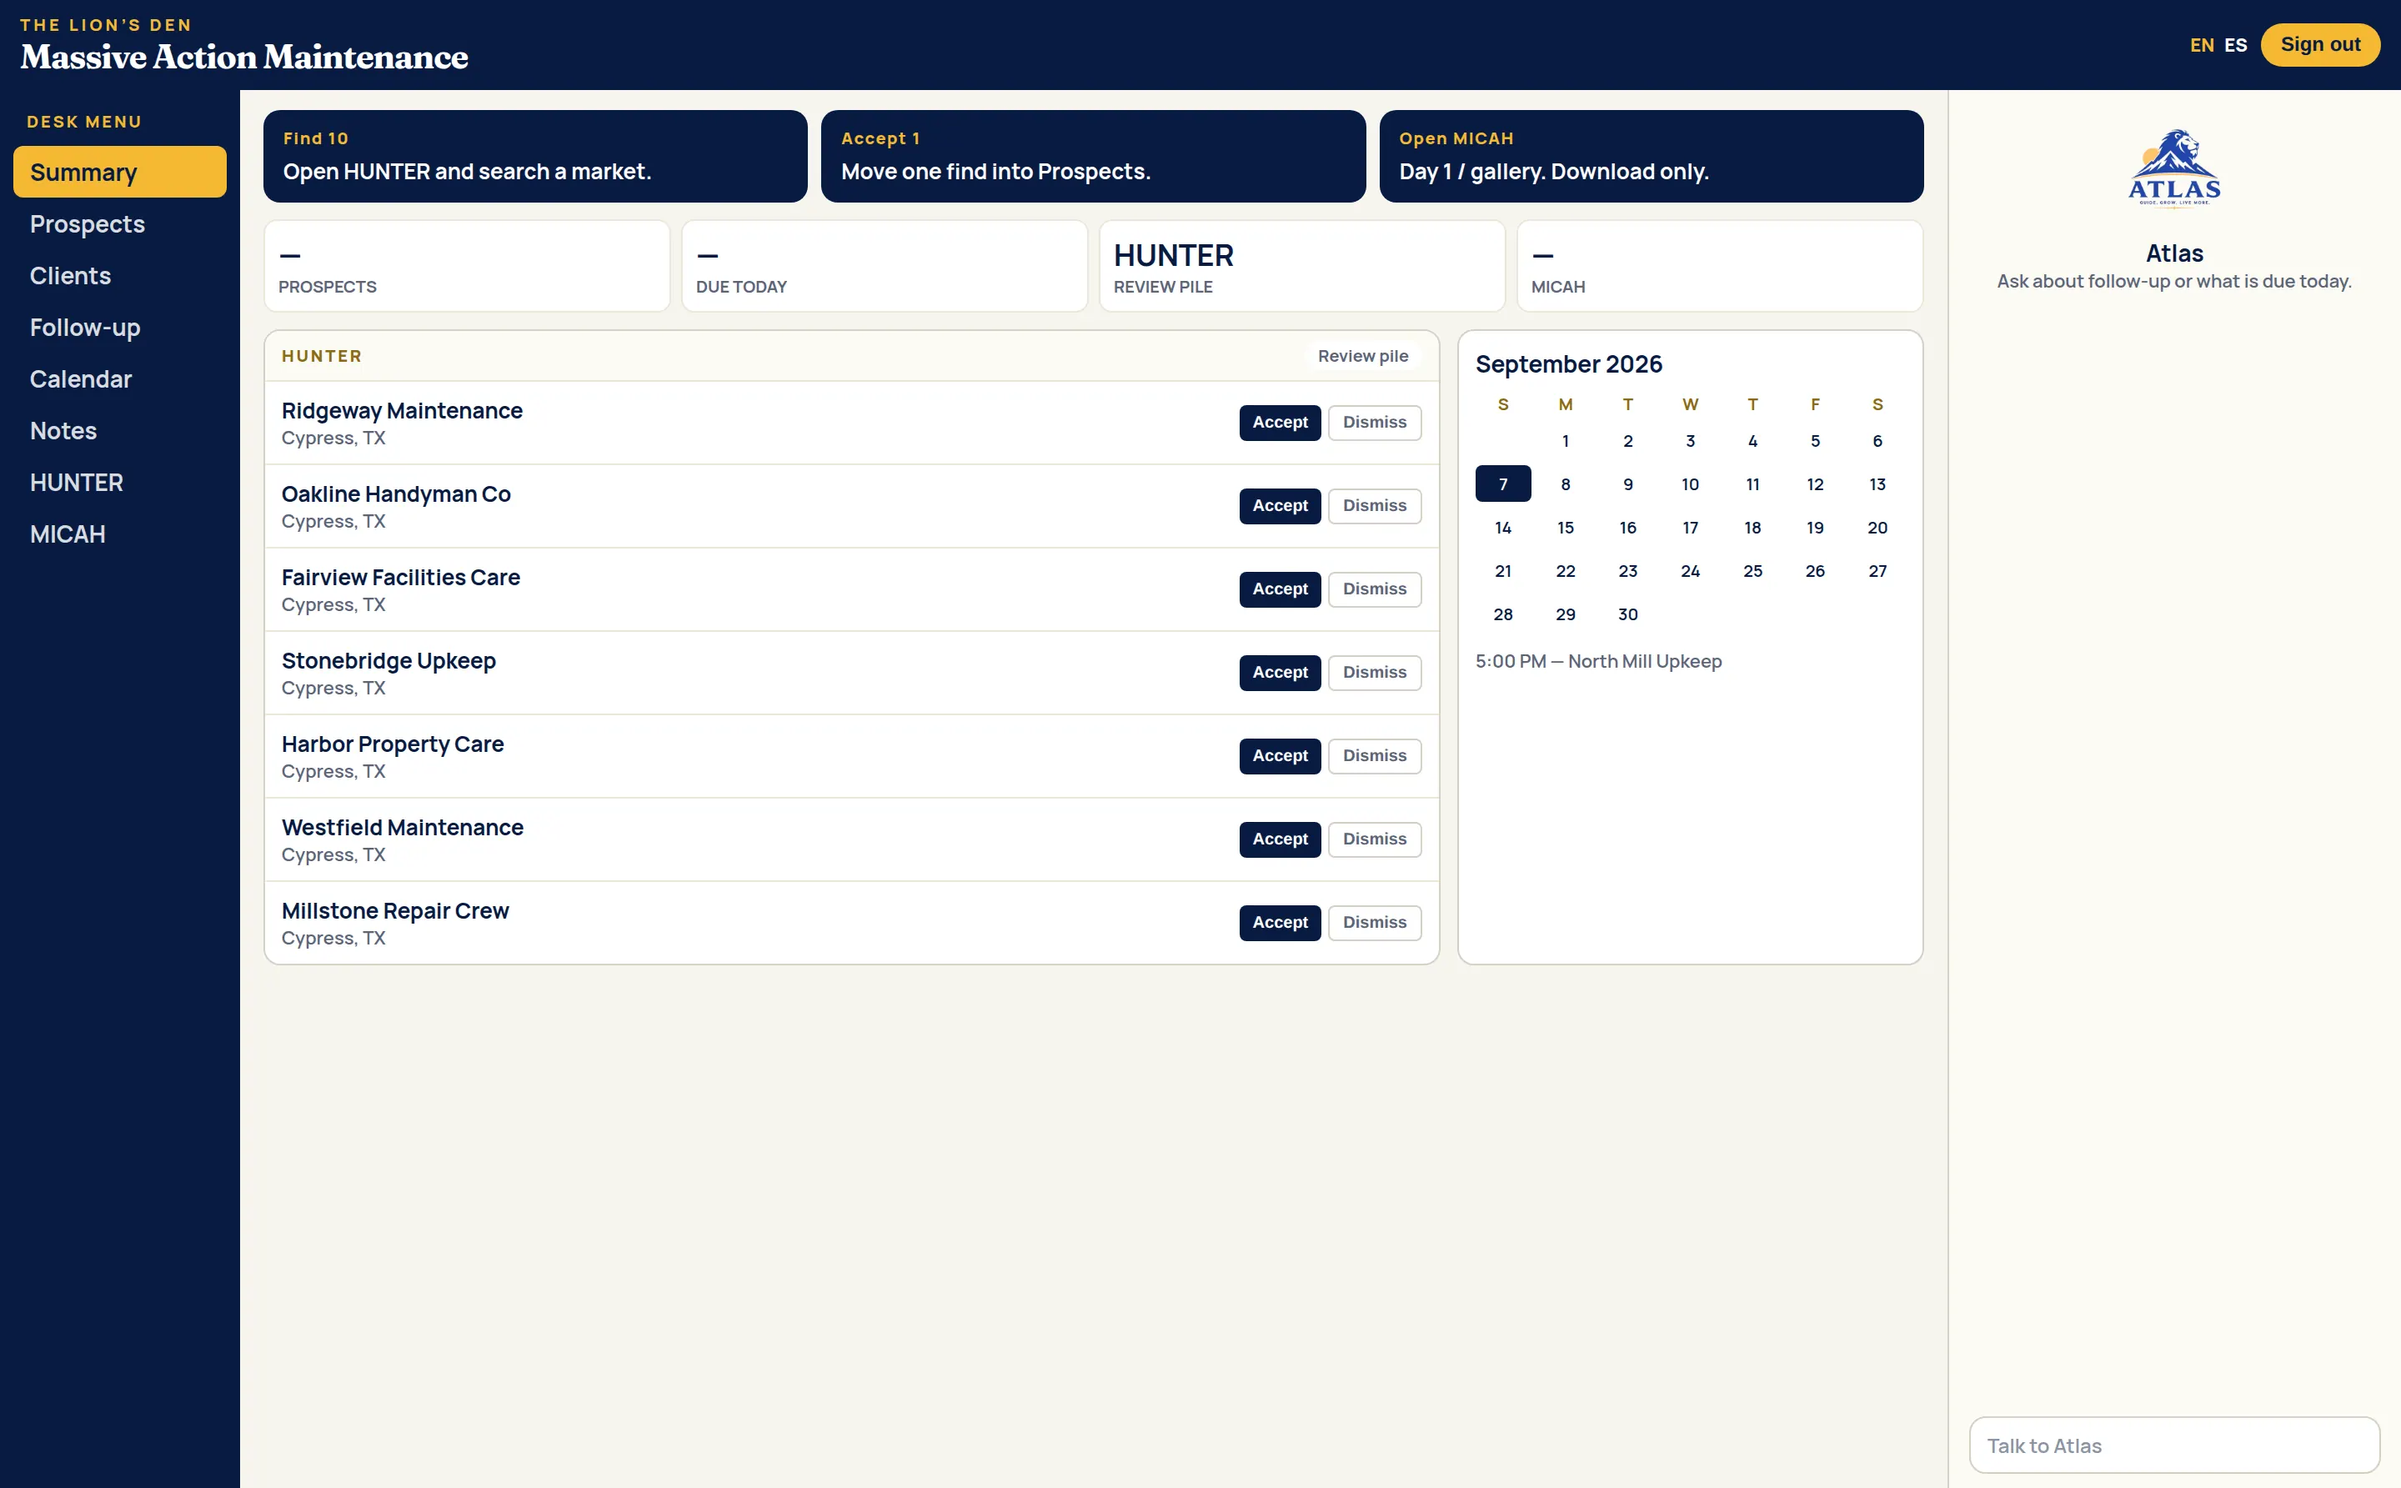
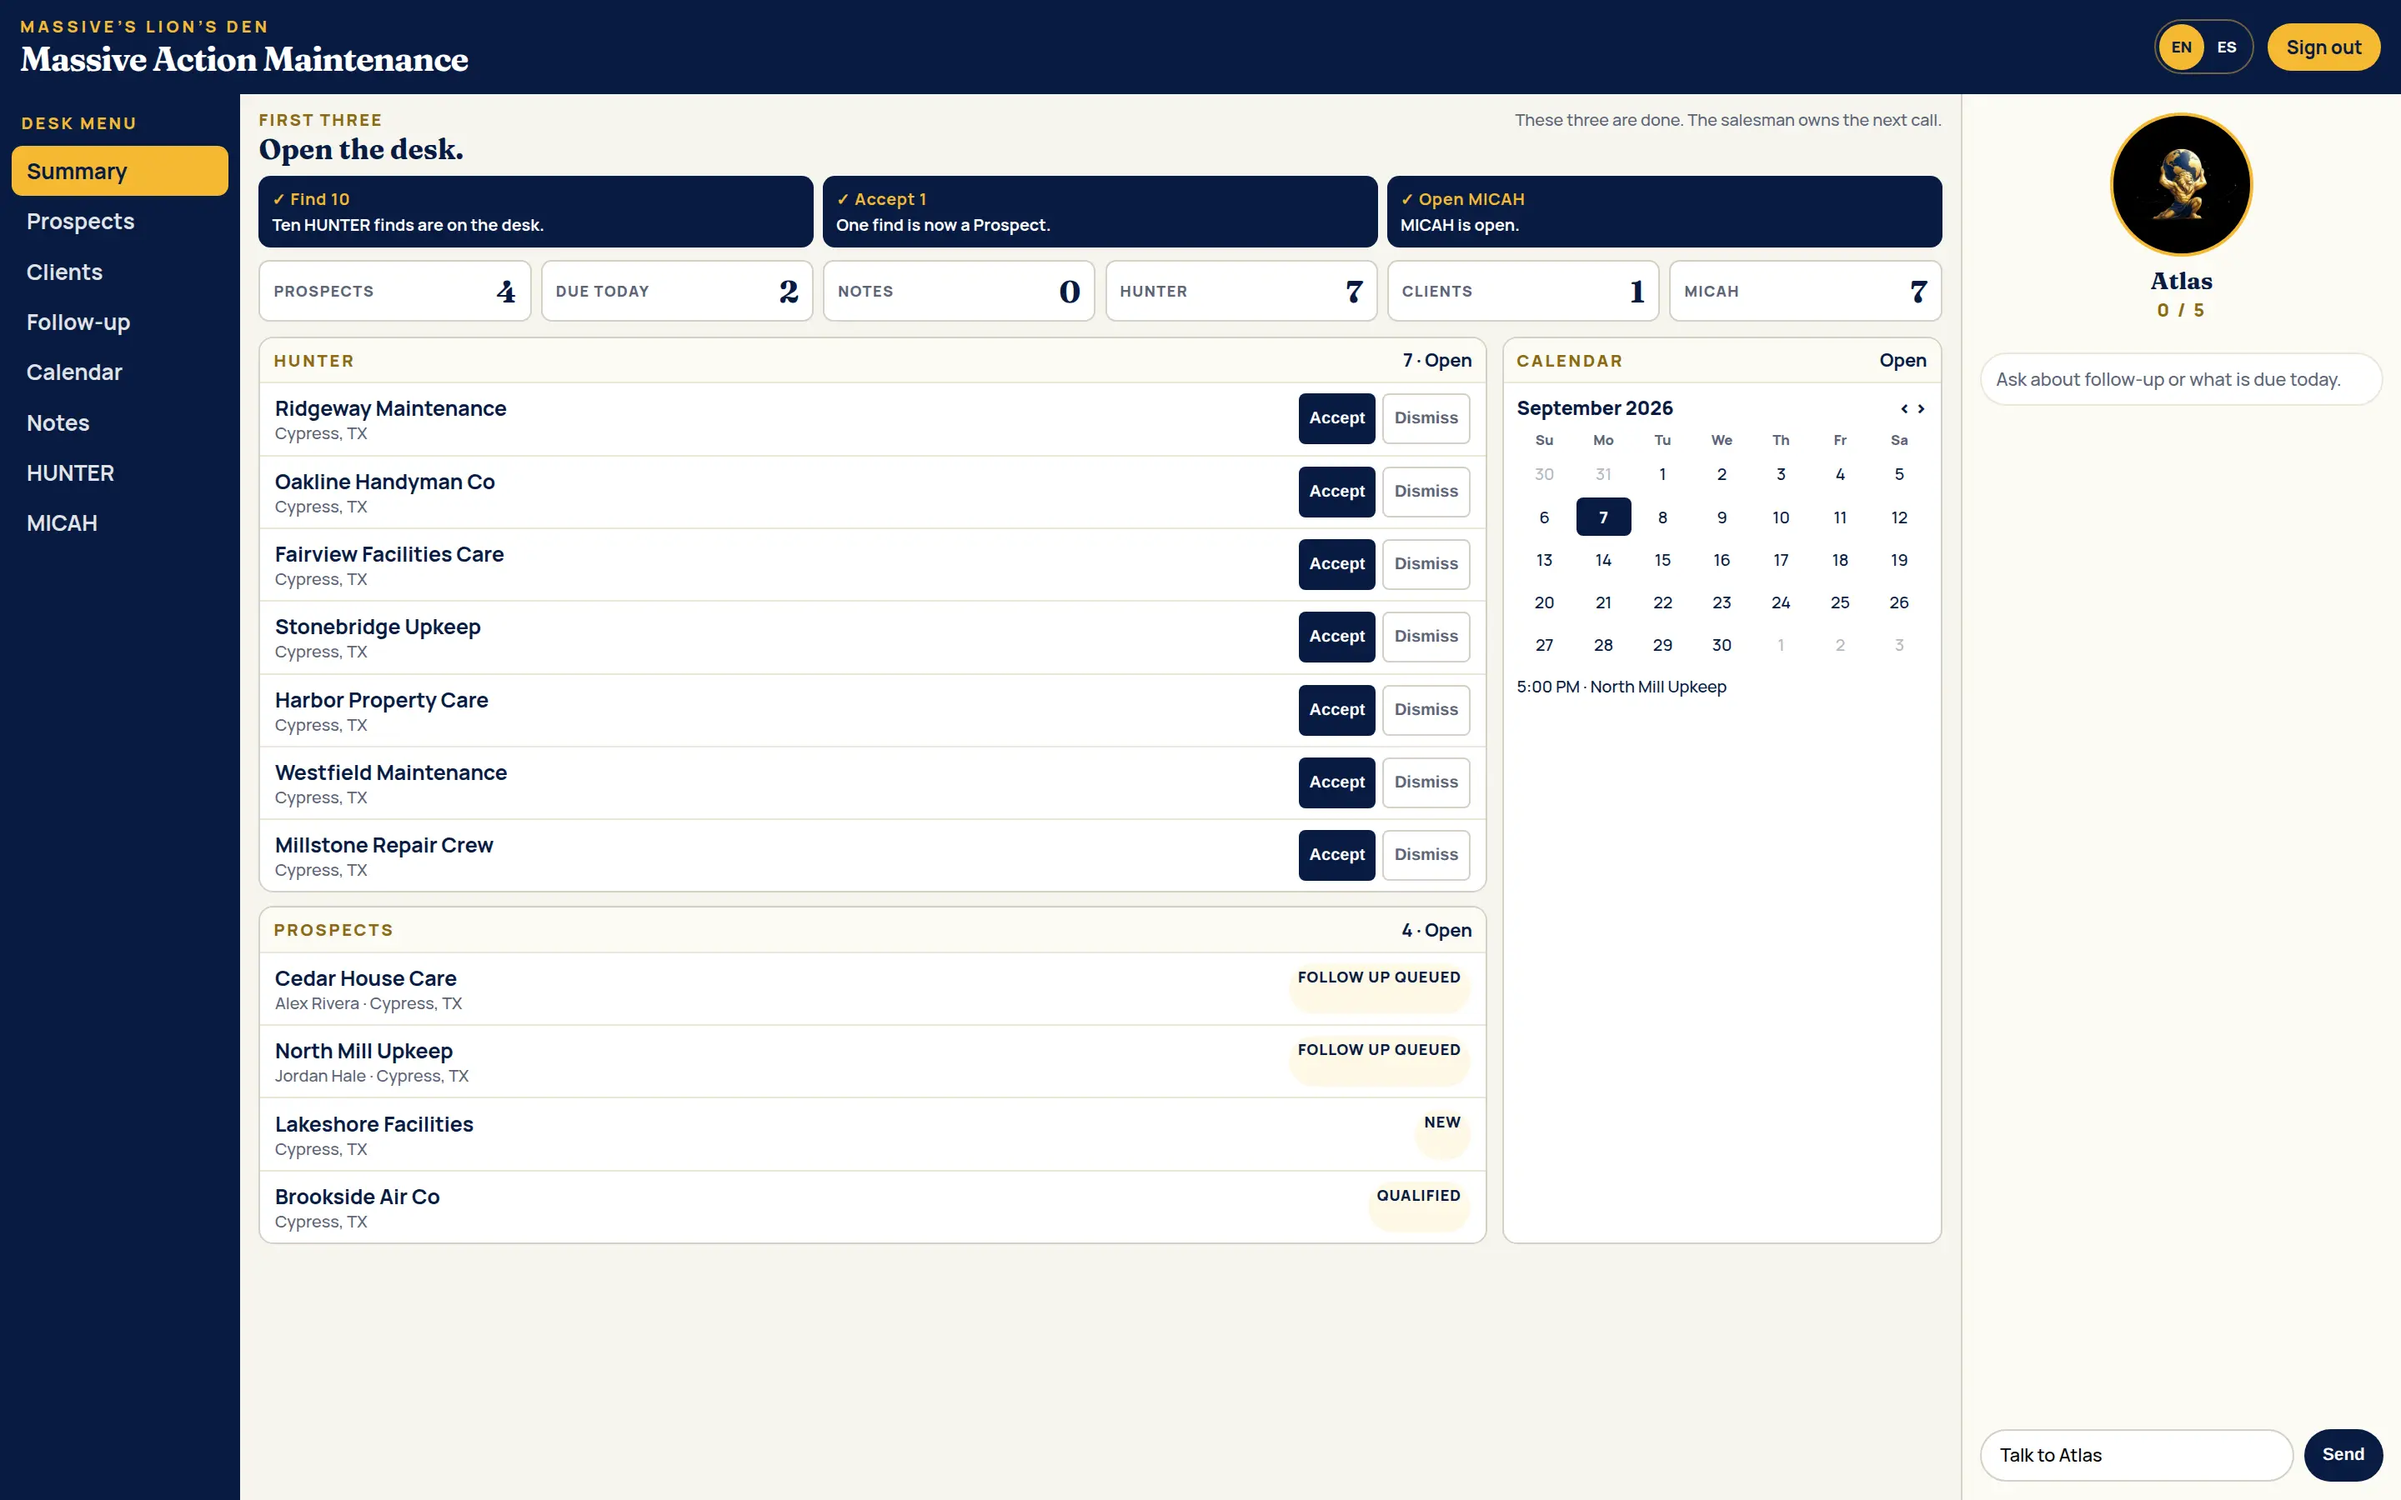
AFE homepage: pack the #den Summary still with real desk counts
Replace the dash-metric hunter crop with a denser Lion’s Den Summary
still — DESK MENU plus Prospects, HUNTER, Follow-up, and MICAH counts
on Massive Action Maintenance. No SAMPLE or SIS chrome.

diff --git a/src/components/atlas-homepage.tsx b/src/components/atlas-homepage.tsx
@@ -161,7 +161,7 @@ const copy: Record<SiteLanguage, LandingCopy> = {
       },
     ],
     denStillAlt:
-      "Lion’s Den Summary for Massive Action Maintenance with Desk menu — Summary, Prospects, Clients, Follow-up, Calendar, Notes, HUNTER, MICAH — and a packed HUNTER review pile",
+      "Lion’s Den Summary for Massive Action Maintenance with Desk menu — Summary, Prospects, Clients, Follow-up, Calendar, Notes, HUNTER, MICAH — plus packed Prospects, HUNTER, Follow-up, and MICAH counts",
   },
   es: {
     eyebrow: "ATLAS PARA EMPRENDEDORES",
@@ -254,7 +254,7 @@ const copy: Record<SiteLanguage, LandingCopy> = {
       },
     ],
     denStillAlt:
-      "Resumen del Lion’s Den para Massive Action Maintenance con el menú del escritorio — Summary, Prospects, Clients, Follow-up, Calendar, Notes, HUNTER, MICAH — y una pila de revisión HUNTER llena",
+      "Resumen del Lion’s Den para Massive Action Maintenance con el menú del escritorio — Summary, Prospects, Clients, Follow-up, Calendar, Notes, HUNTER, MICAH — y conteos llenos de Prospects, HUNTER, Follow-up y MICAH",
   },
 };
 

diff --git a/src/components/atlas-homepage.test.ts b/src/components/atlas-homepage.test.ts
@@ -76,7 +76,7 @@ test("AFE homepage #den shows a real Lion’s Den Summary still, not the empty w
   assert.match(homepage, /Desk menu/);
   assert.match(homepage, /Summary, Prospects, Clients, Follow-up, Calendar, Notes, HUNTER, MICAH/);
   assert.match(homepage, /Massive Action Maintenance/);
-  assert.match(homepage, /packed HUNTER review pile/);
+  assert.match(homepage, /packed Prospects, HUNTER, Follow-up, and MICAH counts/);
   assert.doesNotMatch(homepage, /Your workspace|Tu espacio de trabajo/);
   assert.doesNotMatch(homepage, /No recent activity|No hay actividad reciente/);
   assert.doesNotMatch(homepage, /"Dashboard"|"Leads"|"Conversations"|"Opportunities"/);
